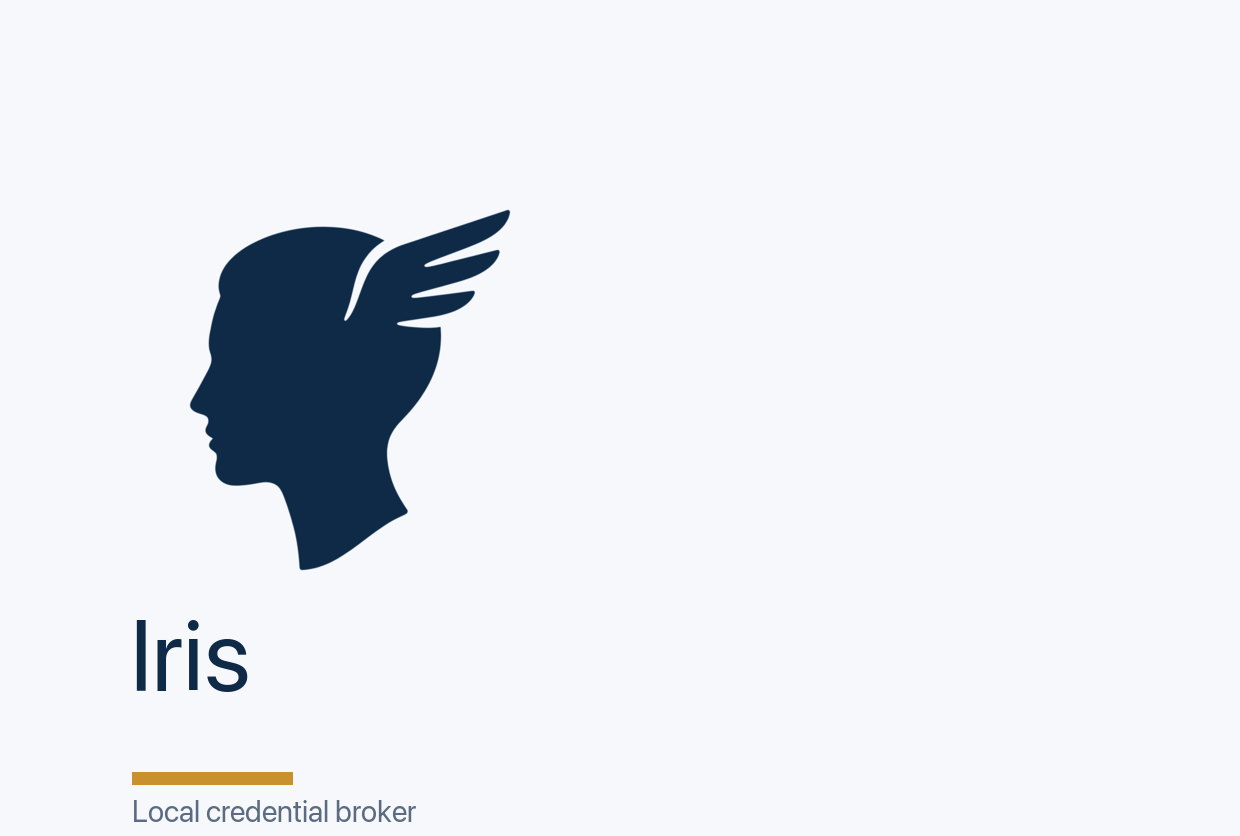
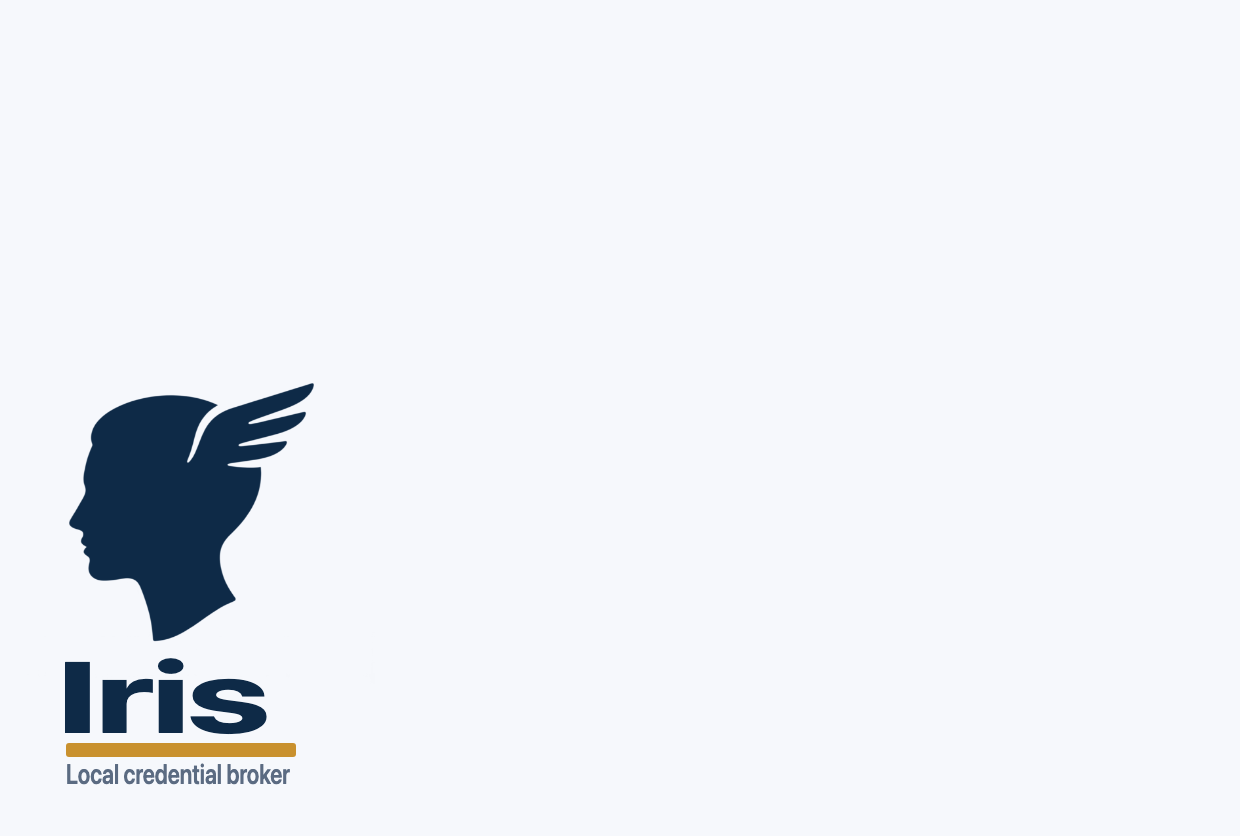
fix(phase-9c): fond installeur fidèle (playground) + dark mode + licence non localisée
Retours du smoke T8 (écran d'accueil) :
- Overlap art/texte : emblème, wordmark « Iris », barre dorée et tagline repositionnés
  via un playground drag/resize ; fond regénéré par rendu HTML (vraie police SF + masque
  CSS) capturé en Chrome headless -> fidélité exacte au placement. make-background.sh ne
  recourt plus à magick pour l'art (juste le masque alpha, inliné en data URI car un
  mask-image PNG externe en file:// est bloqué same-origin).
- Dark mode illisible (le fond clair disparaissait) : ajout de background-dark.png +
  <background-darkAqua> dans Distribution.xml.
- Sélecteur de langue trompeur sur l'écran Licence (texte MIT toujours en anglais) :
  licence en ressource racine NON localisée (build-pkg.sh) ; welcome/readme/conclusion
  restent bilingues en/fr.

Vérif headless : xmllint + pkgbuild/productbuild factice + pkgutil --expand
(background-darkAqua câblé, license.txt à la racine, lproj sans license.txt).

Changed region(s): [[0.0306, 0.2488, 0.429, 0.9952]]

diff --git a/packaging/installer/render-bg.html b/packaging/installer/render-bg.html
@@ -1,0 +1,59 @@
+<!DOCTYPE html>
+<!--
+  Rendu de la couche de fond de l'installeur (art seul, 1240x836).
+  Source de vérité du placement = positionné dans le playground (cf docs phase-9c),
+  exporté en fractions ci-dessous. Capturé par packaging/installer/make-background.sh
+  via Chrome headless -> resources/background.png (clair) + background-dark.png (sombre).
+  Génère le fond avec la VRAIE police SF + le masque CSS (fidélité au playground) ;
+  magick ne sert qu'à préparer le masque alpha sil-mask.png.
+-->
+<html lang="fr"><head><meta charset="utf-8">
+<style>
+  *{margin:0;box-sizing:border-box}
+  html,body{background:#F6F8FC}
+  .bg{position:relative;width:1240px;height:836px;overflow:hidden;
+    --field:#F6F8FC;--emblem:#0E2A47;--word:#0E2A47;--rule:#C9912E;--tag:#5B6B82;
+    background:var(--field)}
+  .bg[data-theme="dark"]{--field:#1C212B;--emblem:#cfe0f2;--word:#eef3fb;--rule:#C9912E;--tag:#aab4c4}
+  .obj{position:absolute}
+  .emblem-c{position:absolute;inset:0;background:var(--emblem);
+    -webkit-mask:var(--mask) no-repeat center/100% 100%; mask:var(--mask) no-repeat center/100% 100%}
+  .rule-c{position:absolute;inset:0;background:var(--rule);border-radius:3px}
+  .txt{position:absolute;left:0;top:0;white-space:nowrap;line-height:1;font-weight:720;
+    letter-spacing:-.02em;transform-origin:top left;
+    font-family:-apple-system,BlinkMacSystemFont,"SF Pro Display","SF Pro Text",sans-serif;font-size:240px}
+  #word .txt{color:var(--word)}
+  #tag .txt{color:var(--tag);font-weight:600;letter-spacing:0}
+</style></head>
+<body>
+  <div class="bg" id="bg">
+    <div class="obj" id="emblem"><div class="emblem-c"></div></div>
+    <div class="obj" id="word"><span class="txt">Iris</span></div>
+    <div class="obj" id="rule"><div class="rule-c"></div></div>
+    <div class="obj" id="tag"><span class="txt">Local credential broker</span></div>
+  </div>
+<script>
+document.documentElement.style.setProperty('--mask', "url('sil-mask.png')");
+// Disposition (fractions de la fenêtre 1240x836), figée depuis le playground.
+const L = {
+  emblem:{x:0.0061,y:0.4108,w:0.2966,h:0.4069},
+  word:  {x:0.0454,y:0.7719,w:0.1700,h:0.1200},
+  rule:  {x:0.0532,y:0.8884,w:0.1856,h:0.0173},
+  tag:   {x:0.0530,y:0.9082,w:0.1805,h:0.0339},
+};
+const W=1240,H=836;
+const params=new URLSearchParams(location.search);
+document.getElementById('bg').dataset.theme = params.get('theme')||'light';
+for(const id in L){
+  const s=L[id], el=document.getElementById(id);
+  el.style.left=(s.x*W)+'px'; el.style.top=(s.y*H)+'px';
+  el.style.width=(s.w*W)+'px'; el.style.height=(s.h*H)+'px';
+  const span=el.querySelector('.txt');
+  if(span){ span.style.transform='none';
+    const bw=span.offsetWidth||1, bh=span.offsetHeight||1;
+    span.style.transform=`scale(${el.clientWidth/bw}, ${el.clientHeight/bh})`;
+  }
+}
+document.title='ready';
+</script>
+</body></html>